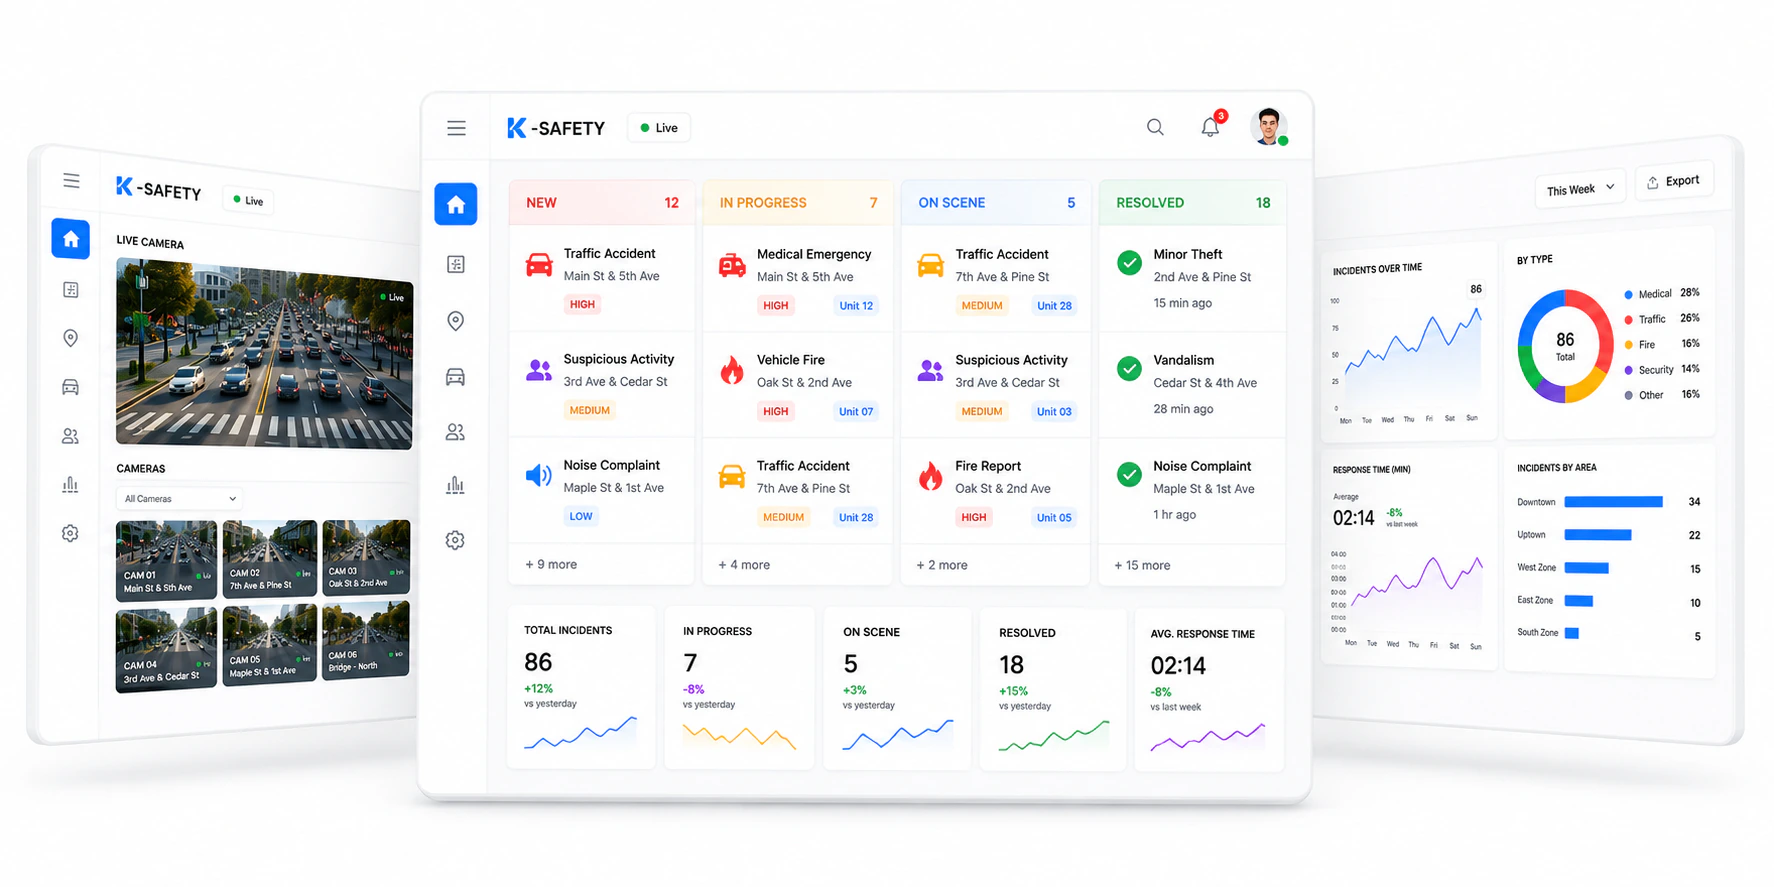
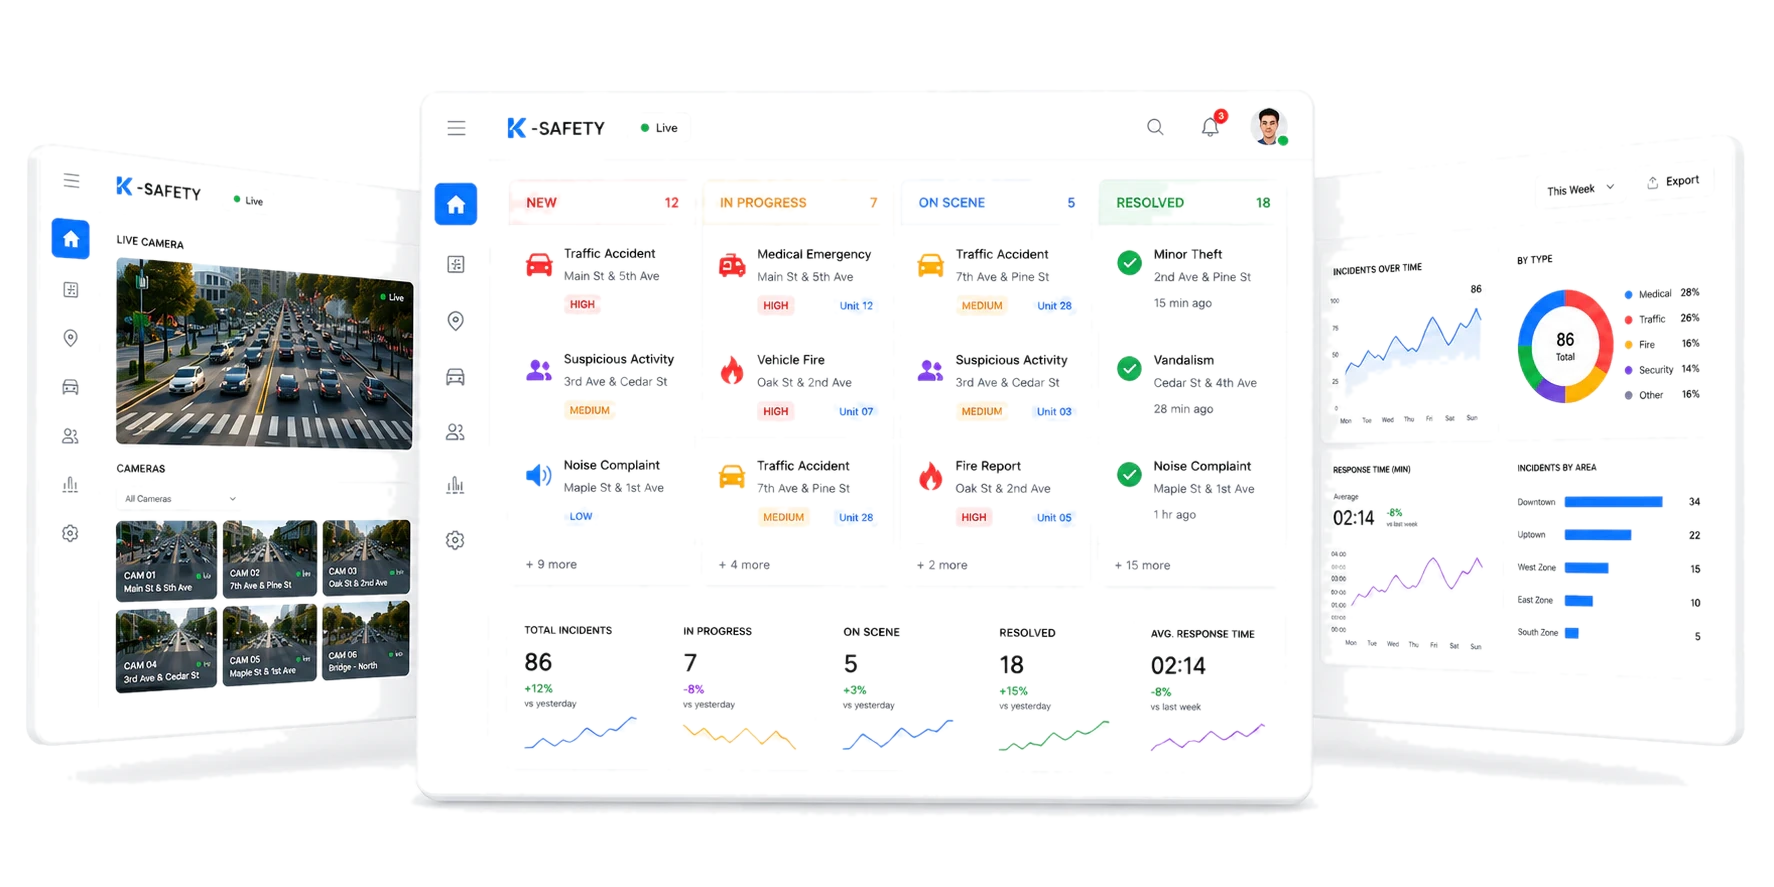
Fix: K-Safety hero — matte white canvas back to transparent (v2.304)
v2.302 flood-filled the generated hero to transparency so the light
panels float on the hero gradient. v2.303 swapped in Omer's real
ksafe.png, which shipped as a solid-white RGB canvas — reintroducing
the white block the heroLight treatment removes (KAB-2346).

Re-applied the matte to the real image via a new reusable script
(scripts/matte-hero-transparent.py): a border-seeded flood fill marks
only edge-connected white, so white inside the dashboard panels is
preserved, then feathers the alpha edge so panel drop shadows survive.
76% of the canvas is now transparent; corners read alpha 0. Verified by
compositing over both the light hero gradient and a dark field — panels
intact, no white rectangle, no visible halo.

Asset only; no code change — sol-ksafety.ts already carries heroLight:
true (bypasses Next's optimizer, which flattens alpha).

diff --git a/changelog.html b/changelog.html
@@ -356,6 +356,19 @@
 
     <div class="timeline">
 
+      <!-- v2.304 -->
+      <div class="tl-entry fix" id="v2.304">
+        <div class="tl-meta"><span class="tl-ver">v2.304</span><span class="tl-date">2026-07-31</span></div>
+        <div class="tl-title">K-Safety hero: matte white canvas back to transparent</div>
+        <div class="tl-body">
+          <ul class="version-changes">
+            <li><strong>The hero screen's background is transparent again, not white (KAB-2346).</strong> v2.302 matted the <em>generated</em> hero transparent so the panels float on the light gradient; v2.303 swapped in Omer's real <code>ksafe.png</code>, which shipped as a solid-white RGB canvas — reintroducing the white block that <code>heroLight</code> is meant to remove. Re-applied the matte to the real image: border-seeded flood fill (edge-connected white only, so white inside the panels is untouched) with a feathered edge so the panel drop shadows survive</li>
+            <li><strong>76% of the canvas is now transparent</strong>; corners read alpha 0. Verified over both the light hero gradient and a dark field — panels intact, no white rectangle, no visible halo</li>
+            <li>Added <code>scripts/matte-hero-transparent.py</code> so a future white-background export can be re-matted in one command. Asset only — no code change; <code>sol-ksafety.ts</code> already carried <code>heroLight: true</code></li>
+          </ul>
+        </div>
+      </div>
+
       <!-- v2.303 -->
       <div class="tl-entry changed" id="v2.303">
         <div class="tl-meta"><span class="tl-ver">v2.303</span><span class="tl-date">2026-07-31</span></div>

diff --git a/scripts/matte-hero-transparent.py b/scripts/matte-hero-transparent.py
@@ -1,0 +1,61 @@
+#!/usr/bin/env python3
+"""Flood-fill the flat white canvas of a light 3D-panel hero out to transparency.
+
+The `heroLight` treatment in SolutionPage floats the panels directly on the
+hero gradient, which only works if the image ships with an alpha channel. Image
+models (and Omer's shared exports) hand back a solid white RGB canvas instead.
+This mattes the OUTER background only — a border-seeded flood fill with tolerance
+— so white *inside* the panels (labels, UI) is preserved, then feathers the edge
+so no white halo survives around the panel silhouettes.
+
+Usage: python3 scripts/matte-hero-transparent.py <in.webp> [out.webp]
+"""
+import sys
+from PIL import Image, ImageDraw, ImageFilter
+
+SENTINEL = (255, 0, 255)   # magenta marker for the filled background
+THRESH = 32                 # flood tolerance around near-white
+FEATHER = 1.2               # gaussian blur radius on the alpha edge
+
+
+def main():
+    src = sys.argv[1]
+    out = sys.argv[2] if len(sys.argv) > 2 else src
+    im = Image.open(src).convert("RGB")
+    w, h = im.size
+
+    # Flood-fill from a ring of border seeds so the whole connected white
+    # background is marked, whichever corner the panels lean toward.
+    work = im.copy()
+    seeds = []
+    step = max(1, w // 40)
+    for x in range(0, w, step):
+        seeds += [(x, 0), (x, h - 1)]
+    step = max(1, h // 40)
+    for y in range(0, h, step):
+        seeds += [(0, y), (w - 1, y)]
+    for s in seeds:
+        r, g, b = work.getpixel(s)
+        if r > 235 and g > 235 and b > 235:  # only seed on near-white
+            ImageDraw.floodfill(work, s, SENTINEL, thresh=THRESH)
+
+    # Build alpha: 0 where sentinel, 255 elsewhere.
+    px = work.load()
+    alpha = Image.new("L", (w, h), 255)
+    ap = alpha.load()
+    for y in range(h):
+        for x in range(w):
+            if px[x, y] == SENTINEL:
+                ap[x, y] = 0
+
+    # Feather the edge so panel silhouettes don't keep a hard white fringe.
+    alpha = alpha.filter(ImageFilter.GaussianBlur(FEATHER))
+
+    rgba = im.convert("RGBA")
+    rgba.putalpha(alpha)
+    rgba.save(out, "WEBP", quality=90, method=6)
+    print(f"wrote {out}  mode=RGBA size={rgba.size}")
+
+
+if __name__ == "__main__":
+    main()

diff --git a/CHANGELOG.md b/CHANGELOG.md
@@ -1,3 +1,14 @@
+## [v2.304] – 2026-07-31 — K-Safety hero: matte white canvas back to transparent
+### Fixed
+- **The K-Safety hero screen's background is transparent again, not white (KAB-2346).** v2.302 flood-filled the *generated* hero to transparency so the panels float on the light hero gradient; v2.303 then swapped in Omer's real `ksafe.png`, which shipped as a solid-white RGB canvas — reintroducing the white block the `heroLight` treatment is meant to remove. Re-applied the matte to the real image: border-seeded flood fill (connected-to-edge white only, so white *inside* the dashboard panels is untouched) with a feathered edge so the panel drop shadows survive. 76% of the canvas is now transparent; corners read alpha 0. Verified by compositing over both the light hero gradient and a dark field — panels intact, no white rectangle, no visible halo on the light background.
+
+### Added
+- `scripts/matte-hero-transparent.py` — reusable border-flood matte for the light 3D-panel heroes, so a future white-background export can be re-matted in one command instead of hand-editing alpha.
+
+### Notes
+- Asset only; no code change — `sol-ksafety.ts` already carries `heroLight: true` (which bypasses Next's optimizer, since it flattens alpha) and the renderer path was unchanged.
+- Not pushed — staged on `hero-redesign` for review.
+
 ## [v2.303] – 2026-07-31 — K-Safety hero: use Omer's actual shared image, larger
 ### Changed
 - **The hero now uses the real image Omer shared, not a generated approximation.** The prior pass regenerated an approximation because the reference was thought to be a pasted image with no file on disk — but the actual asset (`ksafe.png`) was in `~/Downloads`. Converted it to `hero-k-safety.webp` (1774×887, cwebp `-q 92 -sharp_yuv`). This is the genuine high-fidelity K-Safety composition: correct 1K brand mark, real status columns (NEW 12 / IN PROGRESS 7 / ON SCENE 5 / RESOLVED 18), trend deltas (+12% / -8% / +3% / +15%), Export button, "This Week" date picker, BY TYPE donut and INCIDENTS BY AREA/RESPONSE TIME analytics panel.
